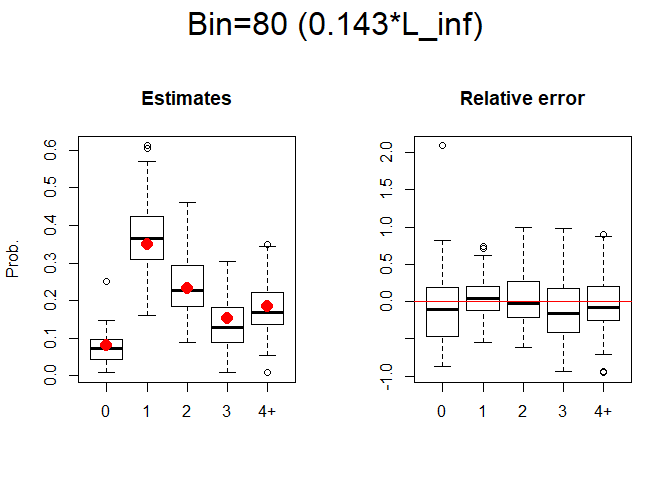
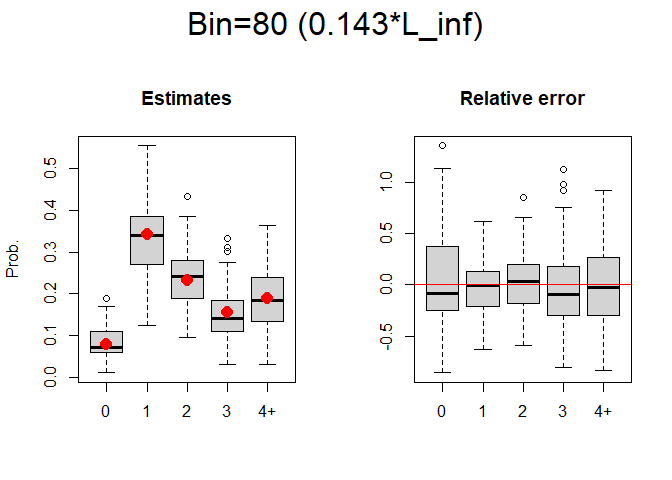
Age-lengthサブサンプルをランダムサンプリングに

diff --git a/Simulation_ALK_preliminary.md b/Simulation_ALK_preliminary.md
@@ -17,6 +17,9 @@
     加法誤差バージョン）](#ビン幅を変えての計算vb2-加法誤差バージョン)
     -   [資源集団の生成と体長データの生成](#資源集団の生成と体長データの生成-1)
     -   [漁獲物の抽出](#漁獲物の抽出-1)
+-   [ランダムにAge-lengthサブサンプルの抽出（VB2:
+    加法誤差バージョン）](#ランダムにage-lengthサブサンプルの抽出vb2-加法誤差バージョン)
+    -   [age propertiesの推定可能割合](#age-propertiesの推定可能割合)
 -   [メモ](#メモ)
 
 目的
@@ -190,8 +193,8 @@
     prob_Catch_true <- Catch_true$age %>% floor() %>% table()%>% prop.table()
     c(prob_Catch_true[1:4], sum(prob_Catch_true[5:9]))
 
-    ##      0      1      2      3        
-    ## 0.0807 0.3506 0.2316 0.1538 0.1833
+    ##          0          1          2          3            
+    ## 0.07946618 0.34152260 0.23293904 0.15644525 0.18962693
 
 Length frequencyサンプルの抽出
 ------------------------------
@@ -207,13 +210,13 @@ Length frequencyサンプルの抽出
     LF_mat_true$bin_L[(LF_mat_true$bin_L>=max_length)] <- max_length
     head(LF_mat_true)
 
-    ##      id   age length bin_L
-    ## 1 10508 1.359    306   300
-    ## 2 42700 2.138    409   400
-    ## 3 21151 0.538    202   200
-    ## 4 45005 2.491    407   400
-    ## 5 29434 2.505    424   420
-    ## 6 31565 4.074    372   360
+    ##      id      age   length bin_L
+    ## 1 49257 4.761013 354.1858   340
+    ## 2 42098 5.108582 372.3381   360
+    ## 3 41153 2.310927 435.0622   420
+    ## 4 25613 1.769791 400.8490   400
+    ## 5 26204 2.507887 367.9251   360
+    ## 6 17873 2.478367 426.4484   420
 
 Age-lengthサブサンプルの抽出
 ----------------------------
@@ -254,8 +257,8 @@ Age-lengthサブサンプルの抽出
     table(AL_mat$bin_L)
 
     ## 
-    ## 180 200 220 240 260 280 300 320 340 360 380 400 420 440 460 480 520 620 
-    ##   3   4   4   5  10  10  10  10  10  10  10  10  10   8   4   3   1   1
+    ## 120 180 200 220 240 260 280 300 320 340 360 380 400 420 440 460 480 500 520 560 
+    ##   1   2   3   6   8  10  10  10  10  10  10  10  10  10   8   3   2   2   1   1
 
 ALKの計算
 ---------
@@ -275,12 +278,12 @@ ALKの計算
     length_n <- xtabs(~bin_L, data = LF_mat_true)
     alkAgeDist(ALK_est, lenA.n = rowSums(ALK_freq), len.n = length_n)
 
-    ##   age   prop     se
-    ## 1   0 0.0655 0.0195
-    ## 2   1 0.3630 0.0478
-    ## 3   2 0.2530 0.0439
-    ## 4   3 0.1220 0.0311
-    ## 5   4 0.1965 0.0411
+    ##   age   prop         se
+    ## 1   0 0.0820 0.02420093
+    ## 2   1 0.3595 0.04829055
+    ## 3   2 0.2430 0.04386347
+    ## 4   3 0.1380 0.03532435
+    ## 5   4 0.1775 0.03741836
 
 ざっとこんな感じです
 
@@ -431,8 +434,8 @@ Relative errorで見るとかなり優秀
     prob_Catch_true <- Catch_true$age %>% floor() %>% table()%>% prop.table()
     c(prob_Catch_true[1:4], sum(prob_Catch_true[5:9]))
 
-    ##      0      1      2      3        
-    ## 0.0797 0.4224 0.2519 0.1243 0.1216
+    ##          0          1          2          3            
+    ## 0.08350432 0.42243363 0.24877200 0.12385749 0.12143257
 
     bin_sim <- seq(10,100,10)
     age_label <- c(0,1,2,3,"4+") %>% as.character()
@@ -517,6 +520,135 @@ Relative errorで見るとかなり優秀
     }
 
 ![](Simulation_ALK_preliminary_files/figure-markdown_strict/unnamed-chunk-13-1.png)![](Simulation_ALK_preliminary_files/figure-markdown_strict/unnamed-chunk-13-2.png)![](Simulation_ALK_preliminary_files/figure-markdown_strict/unnamed-chunk-13-3.png)![](Simulation_ALK_preliminary_files/figure-markdown_strict/unnamed-chunk-13-4.png)![](Simulation_ALK_preliminary_files/figure-markdown_strict/unnamed-chunk-13-5.png)![](Simulation_ALK_preliminary_files/figure-markdown_strict/unnamed-chunk-13-6.png)![](Simulation_ALK_preliminary_files/figure-markdown_strict/unnamed-chunk-13-7.png)![](Simulation_ALK_preliminary_files/figure-markdown_strict/unnamed-chunk-13-8.png)![](Simulation_ALK_preliminary_files/figure-markdown_strict/unnamed-chunk-13-9.png)![](Simulation_ALK_preliminary_files/figure-markdown_strict/unnamed-chunk-13-10.png)
+
+ランダムにAge-lengthサブサンプルの抽出（VB2: 加法誤差バージョン）
+=================================================================
+
+意図として、
+
+-   ビン幅狭: 精度は高いけど、ALK計算できないパターンの出現
+-   ビン幅広:
+    精度は低いけど、周辺のビンサイズとマスクし合ってALK計算出来る
+
+この2者のトレードオフを見よう
+
+    bin_sim <- seq(10,100,10)
+    age_label <- c(0,1,2,3,"4+") %>% as.character()
+    iteration <- 100
+    n_sample1 <- 200
+    n_sample2 <- 100
+    res_ALKest <- res_ALKse <- LF_mat_sim <- AL_mat_sim <- list()
+    est_mat <- se_mat <- matrix(NA, ncol = 5, nrow = iteration)
+
+    for(bb in 1:length(bin_sim)){
+      for (ite in 1:iteration) {
+        sample1_true <- sample(1:length(Catch_true$id), n_sample1)
+      
+        ## length frequency sample ----------------------------- ##
+        LF_mat_true <- data.frame(id = Catch_true$id[sample1_true],
+                                  age = Catch_true$age[sample1_true],
+                                  length = Catch_true$length[sample1_true]
+        )
+        LF_mat_true %<>% mutate(bin_L = lencat(length, w=bin_sim[bb]))
+        LF_mat_true$bin_L[(LF_mat_true$bin_L>=max_length)] <- max_length
+        
+        ## age-length sample ----------------------------- ##
+        id_tmp <- sample(1:length(LF_mat_true$id), n_sample2) %>% sort()
+        age_tmp <- LF_mat_true$age[id_tmp]
+        plus_tmp <- cbind(age_tmp, rep(NA, length(age_tmp)))
+        for (pp in 1:length(age_tmp)) {
+          plus_tmp[pp,2] <- if(plus_tmp[pp,1]>=max_age)max_age else plus_tmp[pp,1]
+        }
+        AL_mat <- data.frame(id = id_tmp,
+                             age = floor(plus_tmp[,2])+1,
+                             length = LF_mat_true$length[id_tmp],
+                             bin_L = LF_mat_true$bin_L[id_tmp])
+        
+        ## calculation ALK
+        ALK_freq <- xtabs(~bin_L + age, data = AL_mat)
+        ALK_est <- prop.table(ALK_freq, margin = 1)
+        length_n <- xtabs(~bin_L, data = LF_mat_true)
+        res_ALK <- alkAgeDist(ALK_est, lenA.n = rowSums(ALK_freq), len.n = length_n) %>% try(silent = TRUE)
+        
+        if(class(res_ALK) == "try-error"){
+          est_mat[ite,] <- NA
+          se_mat[ite,] <- NA
+        } else {
+          if(!length(res_ALK$prop)==5){
+            est_mat[ite,] <- c(rep(0, (5-length(res_ALK$prop))), res_ALK$prop)  
+            se_mat[ite,] <- c(rep(0, (5-length(res_ALK$prop))), res_ALK$se)     
+          } else {
+            est_mat[ite,] <- res_ALK$prop
+            se_mat[ite,] <- res_ALK$se
+          }  
+        }
+        
+        ## back-up of samples
+        LF_mat_sim[[(ite-1)*length(bin_sim)+bb]] <- LF_mat_true
+        AL_mat_sim[[(ite-1)*length(bin_sim)+bb]] <- AL_mat
+      }#for(ite)
+      colnames(est_mat) <- colnames(se_mat) <- age_label
+      res_ALKest[[bb]] <- est_mat
+      res_ALKse[[bb]] <- se_mat
+    }#for(bb)
+
+    par(oma=c(0,0,3,0), mfrow=c(1,2))
+    tt <- c(prob_Catch_true[1:4], sum(prob_Catch_true[5:9]))
+    for(i in 1:10){
+      if(sum(is.na(res_ALKest[[i]])) == length(bin_sim)*length(age_label))break
+      title_tmp <- paste0("Bin=",bin_sim[i]," (", round(bin_sim[i]/L_inf_true, digits = 3),"*L_inf)")
+      boxplot(res_ALKest[[i]], main = "Estimates", ylab = "Prob.")
+      points(1:5, c(prob_Catch_true[1:4], sum(prob_Catch_true[5:9])), col="red", pch=16, cex=1.6)
+      relative_bias <- apply(res_ALKest[[i]], 1, function(x){(x-tt)/tt})
+      boxplot(t(relative_bias), main = "Relative error")
+      abline(h = 0, lwd = 1.5, col = "red")
+
+      mtext(side = 3, line=1, outer=T, text = title_tmp, cex=2)
+    }
+
+![](Simulation_ALK_preliminary_files/figure-markdown_strict/unnamed-chunk-15-1.png)![](Simulation_ALK_preliminary_files/figure-markdown_strict/unnamed-chunk-15-2.png)![](Simulation_ALK_preliminary_files/figure-markdown_strict/unnamed-chunk-15-3.png)![](Simulation_ALK_preliminary_files/figure-markdown_strict/unnamed-chunk-15-4.png)![](Simulation_ALK_preliminary_files/figure-markdown_strict/unnamed-chunk-15-5.png)![](Simulation_ALK_preliminary_files/figure-markdown_strict/unnamed-chunk-15-6.png)![](Simulation_ALK_preliminary_files/figure-markdown_strict/unnamed-chunk-15-7.png)![](Simulation_ALK_preliminary_files/figure-markdown_strict/unnamed-chunk-15-8.png)![](Simulation_ALK_preliminary_files/figure-markdown_strict/unnamed-chunk-15-9.png)![](Simulation_ALK_preliminary_files/figure-markdown_strict/unnamed-chunk-15-10.png)
+
+age propertiesの推定可能割合
+----------------------------
+
+    ageprop <- numeric()
+    for(i in 1:10)ageprop[i] <- (500 - (is.na(res_ALKest[[i]]) %>% sum())) /500
+    ageprop <- as.data.frame(ageprop) %>% t()
+    colnames(ageprop) <- bin_sim
+    knitr::kable(ageprop)
+
+<table>
+<thead>
+<tr class="header">
+<th style="text-align: left;"></th>
+<th style="text-align: right;">10</th>
+<th style="text-align: right;">20</th>
+<th style="text-align: right;">30</th>
+<th style="text-align: right;">40</th>
+<th style="text-align: right;">50</th>
+<th style="text-align: right;">60</th>
+<th style="text-align: right;">70</th>
+<th style="text-align: right;">80</th>
+<th style="text-align: right;">90</th>
+<th style="text-align: right;">100</th>
+</tr>
+</thead>
+<tbody>
+<tr class="odd">
+<td style="text-align: left;">ageprop</td>
+<td style="text-align: right;">0.01</td>
+<td style="text-align: right;">0.11</td>
+<td style="text-align: right;">0.26</td>
+<td style="text-align: right;">0.38</td>
+<td style="text-align: right;">0.43</td>
+<td style="text-align: right;">0.58</td>
+<td style="text-align: right;">0.51</td>
+<td style="text-align: right;">0.68</td>
+<td style="text-align: right;">0.68</td>
+<td style="text-align: right;">0.66</td>
+</tr>
+</tbody>
+</table>
 
 メモ
 ====
